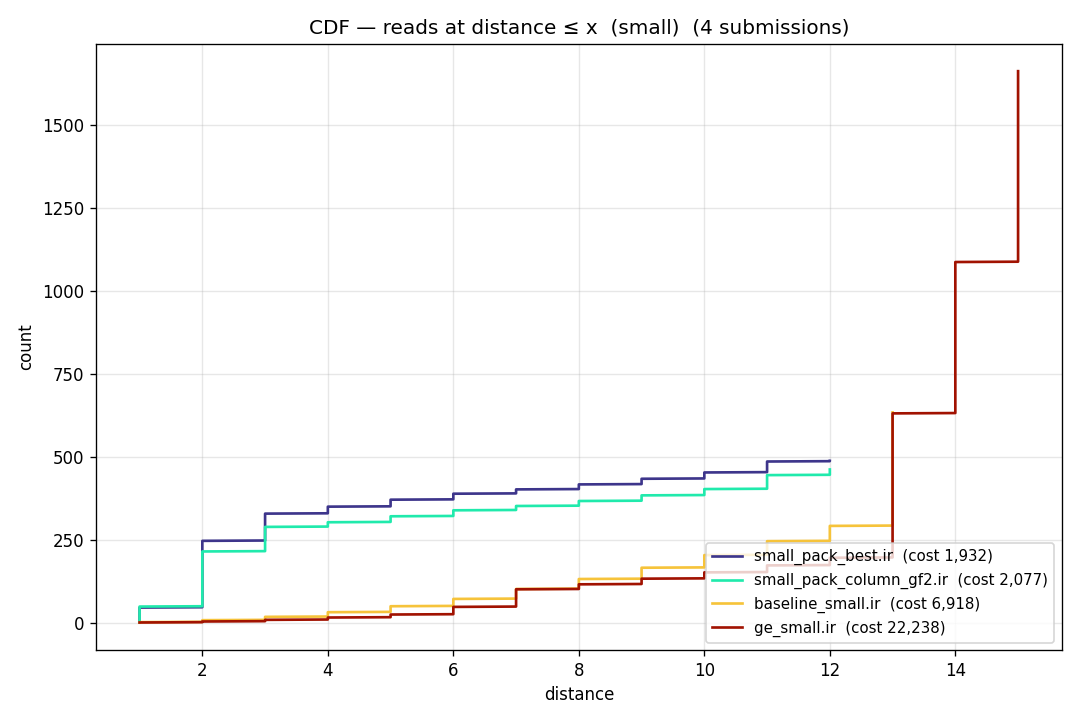
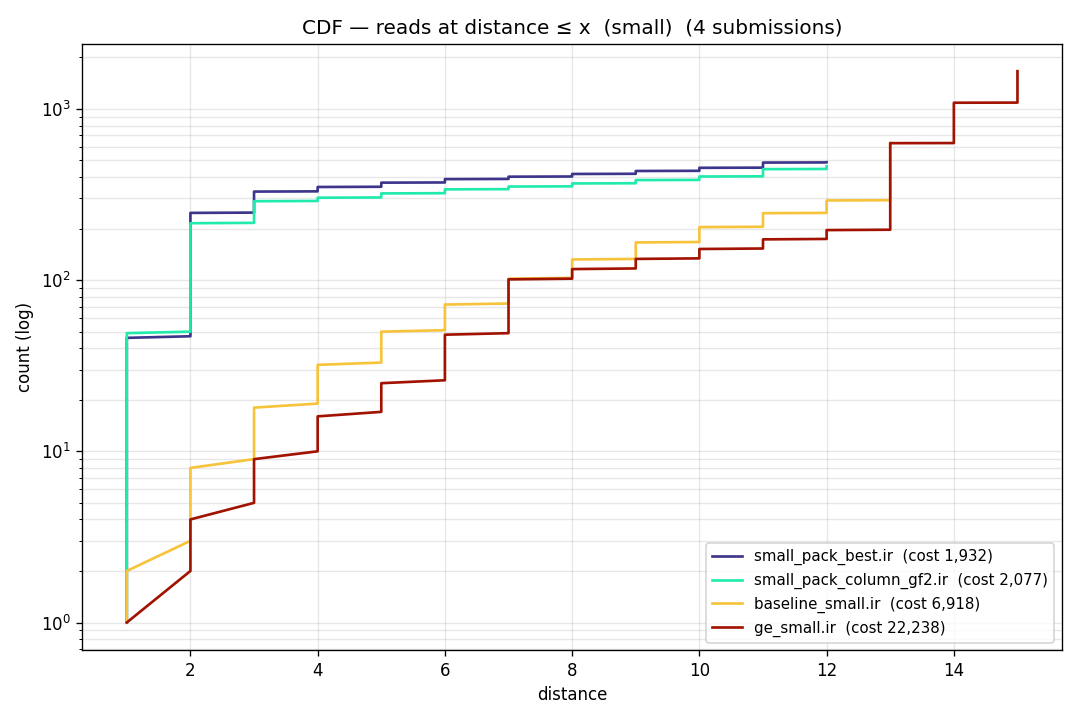
sparse-parity: combined CDFs use log-y so all submissions stay visible
The medium category spans 11× in read count (32,976 for the
try-each-candidate baseline down to 2,902 for predpack_tuned), so the
linear-axis combined CDF showed only the two largest curves clearly
and bunched the three packed-decoder submissions at the bottom.
Switching the combined CDF y-axis to log keeps every line legible
without touching the per-submission histograms (which still use
linear axes).

diff --git a/sparse-parity/doc/access_distance_plots/plot_access_distances.py b/sparse-parity/doc/access_distance_plots/plot_access_distances.py
@@ -131,10 +131,13 @@ def plot_combined_cdf(ir_paths: List[Path], out_path: Path, title: str) -> int:
         cumulative = np.arange(1, len(distances) + 1)
         ax.plot(distances, cumulative, label=f"{name}  (cost {total:,})",
                 color=color, linewidth=1.6)
+    # Log y so submissions whose read counts differ by 10× (e.g. baseline
+    # vs packed-decoder) all stay visible instead of bunching at the bottom.
+    ax.set_yscale("log")
     ax.set_xlabel("distance")
-    ax.set_ylabel("count")
+    ax.set_ylabel("count (log)")
     ax.set_title(f"{title}  ({n} submissions)")
-    ax.grid(alpha=0.3)
+    ax.grid(alpha=0.3, which="both")
     ax.legend(loc="lower right", fontsize=9)
     plt.tight_layout()
     plt.savefig(out_path, dpi=120)